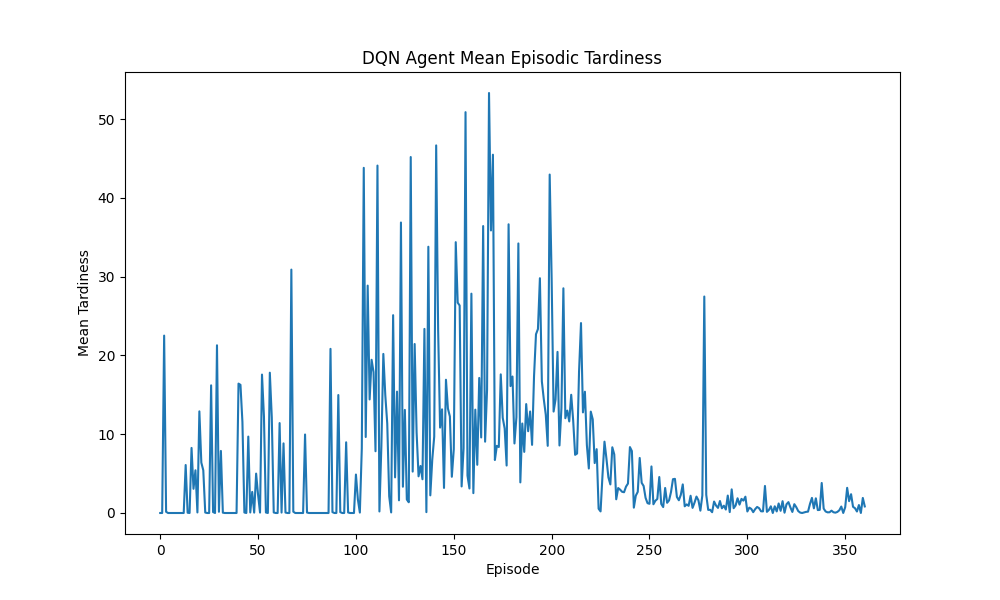
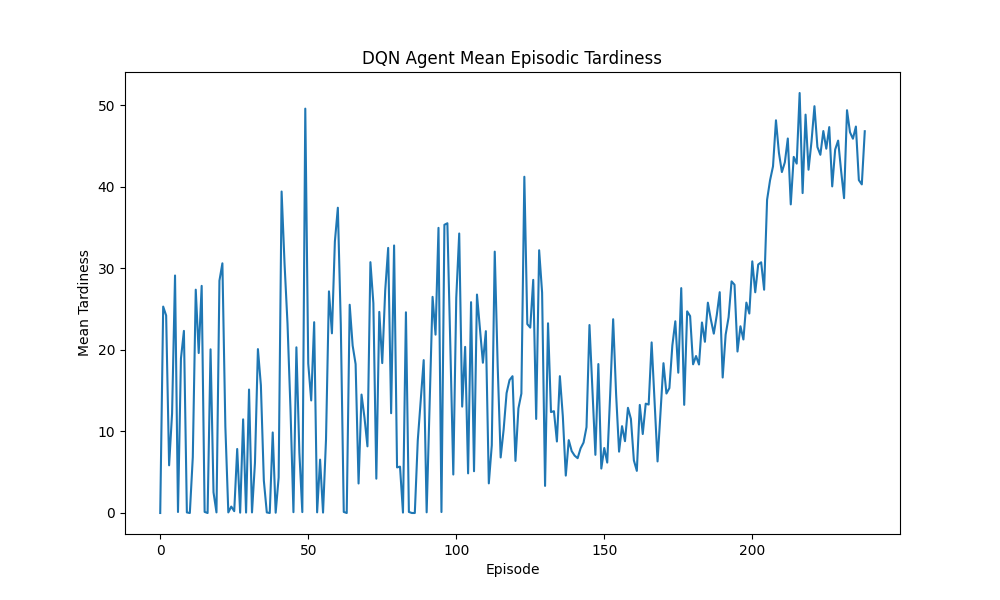
Evaluation mode, remove machine ocupation from reward
Evaluation mode indicator in Factory creation
Remove machine occupation reward calculation

diff --git a/custom_environment/environment.py b/custom_environment/environment.py
@@ -111,7 +111,7 @@ class FactoryEnv(gym.Env):
     _METADATA: dict[int, str] = {0: "vector", 1: "human"}
 
     def __init__(
-        self, machines: list[Machine], jobs: list[Job], max_steps: int = 10_000
+        self, machines: list[Machine], jobs: list[Job], max_steps: int = 10_000, is_evaluation: bool = False
     ) -> None:
         """
         FactoryEnv class constructor method using gym.Space objects for action and observation space
@@ -124,7 +124,7 @@ class FactoryEnv(gym.Env):
         self._machines: list[Machine] = self._total_machines_available.copy()[
             : self._MAX_MACHINES
         ]  # restricted len for max machines being used
-
+        self.is_evaluation: bool = is_evaluation
         self._jobs: list[Job] = jobs
         self._pending_jobs: list[Job] = self._jobs.copy()[
             : self._BUFFER_LEN
@@ -186,18 +186,14 @@ class FactoryEnv(gym.Env):
 
         pending_job_steps_to_deadline_space: gym.spaces.Box = gym.spaces.Box(
             low=0, high=1, shape=(self._BUFFER_LEN, ), dtype=np.float64
-        )# normalized vector (using Min-max scaling [0,1]) for steps to deadline for jobs in buffer
+        )  # normalized vector (using Min-max scaling [0,1]) for steps to deadline for jobs in buffer
 
-        # inprogress_job_remaining_times_space: gym.spaces.Box = gym.spaces.Box(
-        #     low=0, high=1, shape=(self._BUFFER_LEN,), dtype=np.float64
-        # )
         self.observation_space: gym.spaces.Dict = gym.spaces.Dict(
             {
-               # self._PENDING_JOBS_STR: pending_jobs_space,
+                # self._PENDING_JOBS_STR: pending_jobs_space,
                 self._MACHINES_STR: machine_space,
                 self._P_JOB_REMAINING_TIMES_STR: pending_job_remaining_times_space,
-                #self._P_JOB_STEPS_TO_DEADLINE: pending_job_steps_to_deadline_space
-                # self._IP_JOB_REMAINING_TIMES_STR: inprogress_job_remaining_times_space,
+                # self._P_JOB_STEPS_TO_DEADLINE: pending_job_steps_to_deadline_space
             }
         )
 
@@ -248,35 +244,8 @@ class FactoryEnv(gym.Env):
         max_deadline = max(pending_jobs_steps_to_deadline)
         pending_jobs_steps_to_deadline = np.array([min_max_norm(x, min_deadline, max_deadline) for x in pending_jobs_steps_to_deadline], dtype=np.float64)
 
-        # pending_job_remaining_times = np.array([job.get_remaining_process_time() for job in self._pending_jobs], dtype=np.float64)
-        # min_remaining_time = min(pending_job_remaining_times)
-        # max_remaining_time = max(pending_job_remaining_times)
-        # pending_job_remaining_times = np.array([min_max_norm(x, min_remaining_time, max_remaining_time) for x in pending_job_remaining_times], dtype= np.float64)
-
         for idx, val in enumerate(pending_job_remaining_times):
             pending_job_remaining_times[idx] = pending_job_remaining_times[idx] * pending_jobs_steps_to_deadline[idx]
-        #
-        # pending_job_remaining_times = np.array(pending_job_remaining_times)
-        # #######################################################################################################
-        # # repeat for jobs in process                                                                          #
-        # #######################################################################################################
-        # max_duration = min_duration = 0
-        # inprogress_job_remaining_times: np.ndarray = np.zeros(self._BUFFER_LEN, dtype=np.float64)
-        # inprogress = [mj[1] for mj in self._jobs_in_progress] #mj=(machine,job) tuple
-        # for job in inprogress:
-        #     inprogress_job_remaining_times[job.get_id()] = job.get_remaining_process_time()
-        #     print("IPT:",inprogress_job_remaining_times)
-        #     # update max and min duration times for normalizing [0, 1]
-        #     if inprogress_job_remaining_times[job.get_id()] > max_duration:
-        #         max_duration = inprogress_job_remaining_times[job.get_id()]
-        #     elif inprogress_job_remaining_times[job.get_id()] < min_duration:
-        #         min_duration = inprogress_job_remaining_times[job.get_id()]
-        # if not sum(inprogress_job_remaining_times) == 0:
-        #     # normalize job pending deadline proportional to recipe processing duration times observation
-        #     for job in inprogress:
-        #             inprogress_job_remaining_times[job.get_id()] = (
-        #             inprogress_job_remaining_times[job.get_id()] - min_duration
-        #                                                            ) / max_duration - min_duration
 
         ###########################################################
         # return current observation state object for step update #
@@ -285,8 +254,6 @@ class FactoryEnv(gym.Env):
             # self._PENDING_JOBS_STR: is_pending_jobs,
             self._MACHINES_STR: is_machines_active_jobs.flatten(),
             self._P_JOB_REMAINING_TIMES_STR: pending_job_remaining_times,
-            #self._P_JOB_STEPS_TO_DEADLINE: pending_jobs_steps_to_deadline
-            #self._IP_JOB_REMAINING_TIMES_STR: inprogress_job_remaining_times,
         }
 
     def get_pending_jobs(self):
@@ -391,7 +358,7 @@ class FactoryEnv(gym.Env):
         #reward = self._compute_penalties()
         return (reward + sum(steps_to_deadline) / len(steps_to_deadline)
                 + self._compute_pending_job_penalty(action)
-                + self._compute_machine_utilization_reward()
+                # + self._compute_machine_utilization_reward()
                 )
 
     def _compute_job_completed_reward(self, job: Job) -> float:
@@ -564,15 +531,9 @@ class FactoryEnv(gym.Env):
         return not selected_machine.is_available()
 
     def _check_termination(self):
-        if (
-            self.factory_time >= self._max_steps
-            or self.episode_reward_sum < self._termination_reward
-        ):
-            # print(TextColors.RED + "TERMINATED" + TextColors.RESET)
-            self.callback_flag_termination = True
+        if self.factory_time >= self._max_steps:
             return True
-        if len(self._pending_jobs) == 0:
-            # print(TextColors.RED + "TERMINATED_2" + TextColors.RESET)
+        if not self.is_evaluation and self.episode_reward_sum < self._termination_reward:
             return True
         return False
 
@@ -641,8 +602,7 @@ class FactoryEnv(gym.Env):
         #     3-CALC REWARD     #
         #########################
         #state_reward = self._compute_reward()
-
-        reward = step_reward #+ job_completed_reward #+ state_reward
+        reward = step_reward  # + job_completed_reward #+ state_reward
         # print(TextColors.RED+"Reward:"+TextColors.RESET,reward)
         self.episode_reward_sum += reward
         self.callback_step_reward = reward

diff --git a/custom_environment/environment_factory.py b/custom_environment/environment_factory.py
@@ -7,17 +7,19 @@ from custom_environment.recipe import Recipe
 from custom_environment.job import Job
 
 
-def create_factory_env(machines: list[Machine], jobs: list[Job], max_steps: int = 5000) -> FactoryEnv:
+def create_factory_env(machines: list[Machine], jobs: list[Job], max_steps: int = 5000, is_evaluation: bool = False) -> FactoryEnv:
     """
     Factory function for creating a FactoryEnv object
     :param machines: list of Machine objects
     :param jobs: list of Job objects
+    :max_steps: max steps the environment will take before termination
+    :is_evaluation: Enables/Disables the termination condition is reward<-1000 for learning
     :return: FactoryEnv object
     """
-    return FactoryEnv(machines=machines, jobs=jobs, max_steps=max_steps)
+    return FactoryEnv(machines=machines, jobs=jobs, max_steps=max_steps, is_evaluation=is_evaluation)
 
 
-def init_custom_factory_env(is_verbose: bool = False, max_steps: int = 5000) -> FactoryEnv:
+def init_custom_factory_env(is_verbose: bool = False, max_steps: int = 5000, is_evaluation: bool = False) -> FactoryEnv:
     """
     Create a custom FactoryEnv environment for development and testing
     :param is_verbose: print statements if True
@@ -107,7 +109,7 @@ def init_custom_factory_env(is_verbose: bool = False, max_steps: int = 5000) -> 
             print(machine)
             print("-------")
 
-    factory_env: FactoryEnv = create_factory_env(machines=machines, jobs=jobs, max_steps=max_steps)
+    factory_env: FactoryEnv = create_factory_env(machines=machines, jobs=jobs, max_steps=max_steps, is_evaluation=is_evaluation)
     return factory_env
 
 

diff --git a/dqn_agent.py b/dqn_agent.py
@@ -151,7 +151,7 @@ def episodic_dqn_agent(n_episodes: int = 10, agent_path: str = "files/dqn_custom
                        env_max_steps: int = 100):
     ep_reward = []
     ep_tardiness = []
-    dqn_agent = Agent(custom_env=init_custom_factory_env(max_steps=env_max_steps))
+    dqn_agent = Agent(custom_env=init_custom_factory_env(max_steps=env_max_steps, is_evaluation=True))
     dqn_agent.load(agent_path)
     for e in range(n_episodes):
         env = init_custom_factory_env(is_verbose=False)
@@ -177,9 +177,9 @@ if __name__ == "__main__":
 
     agent = Agent(custom_env=init_custom_factory_env(max_steps=MAX_STEPS))
 
-    # agent.learn(
-    #     total_time_steps=MAX_STEPS, log_interval=10, callback=plot_training_callback
-    # )
+    agent.learn(
+        total_time_steps=MAX_STEPS, log_interval=10, callback=plot_training_callback
+    )
     # # agent.learn()
 
     agent.save()

diff --git a/ppo_agent.py b/ppo_agent.py
@@ -23,6 +23,7 @@ from stable_baselines3 import PPO
 import numpy as np
 import matplotlib.pyplot as plt
 
+
 class Agent:
     """
     DQN agent for learning the custom FactoryEnv environment
@@ -94,7 +95,7 @@ def episodic_ppo_agent(n_episodes: int = 10, hp=None, agent_path: str = "files/p
                        env_max_steps: int = 100):
     ep_reward = []
     ep_tardiness = []
-    dqn_agent = Agent(custom_env=init_custom_factory_env(max_steps=env_max_steps))
+    dqn_agent = Agent(custom_env=init_custom_factory_env(max_steps=env_max_steps, is_evaluation=True))
     dqn_agent.load(agent_path)
     for e in range(n_episodes):
         env = init_custom_factory_env(is_verbose=False)

diff --git a/fifo_agent.py b/fifo_agent.py
@@ -32,7 +32,7 @@ def episodic_fifo_agent(n_episodes: int = 10, env_max_steps: int = 10_000):
     ep_reward = []
     ep_tardiness = []
     for e in range(n_episodes):
-        env = init_custom_factory_env(is_verbose=False, max_steps=env_max_steps)
+        env = init_custom_factory_env(is_verbose=False, max_steps=env_max_steps, is_evaluation=True)
         tot_reward = 0
         curr_tardiness = []
         while 1:  # the environment has its own termination clauses, so it will trigger the break

diff --git a/edd_agent.py b/edd_agent.py
@@ -35,7 +35,7 @@ def episodic_edd_agent(n_episodes: int = 10, env_max_steps: int = 10_000):
     ep_reward = []
     ep_tardiness = []
     for e in range(n_episodes):
-        env = init_custom_factory_env(is_verbose=False, max_steps=env_max_steps)
+        env = init_custom_factory_env(is_verbose=False, max_steps=env_max_steps, is_evaluation=True)
         tot_reward = 0
         curr_tardiness = []
         while 1:  # the environment has its own termination clauses, so it will trigger the break
